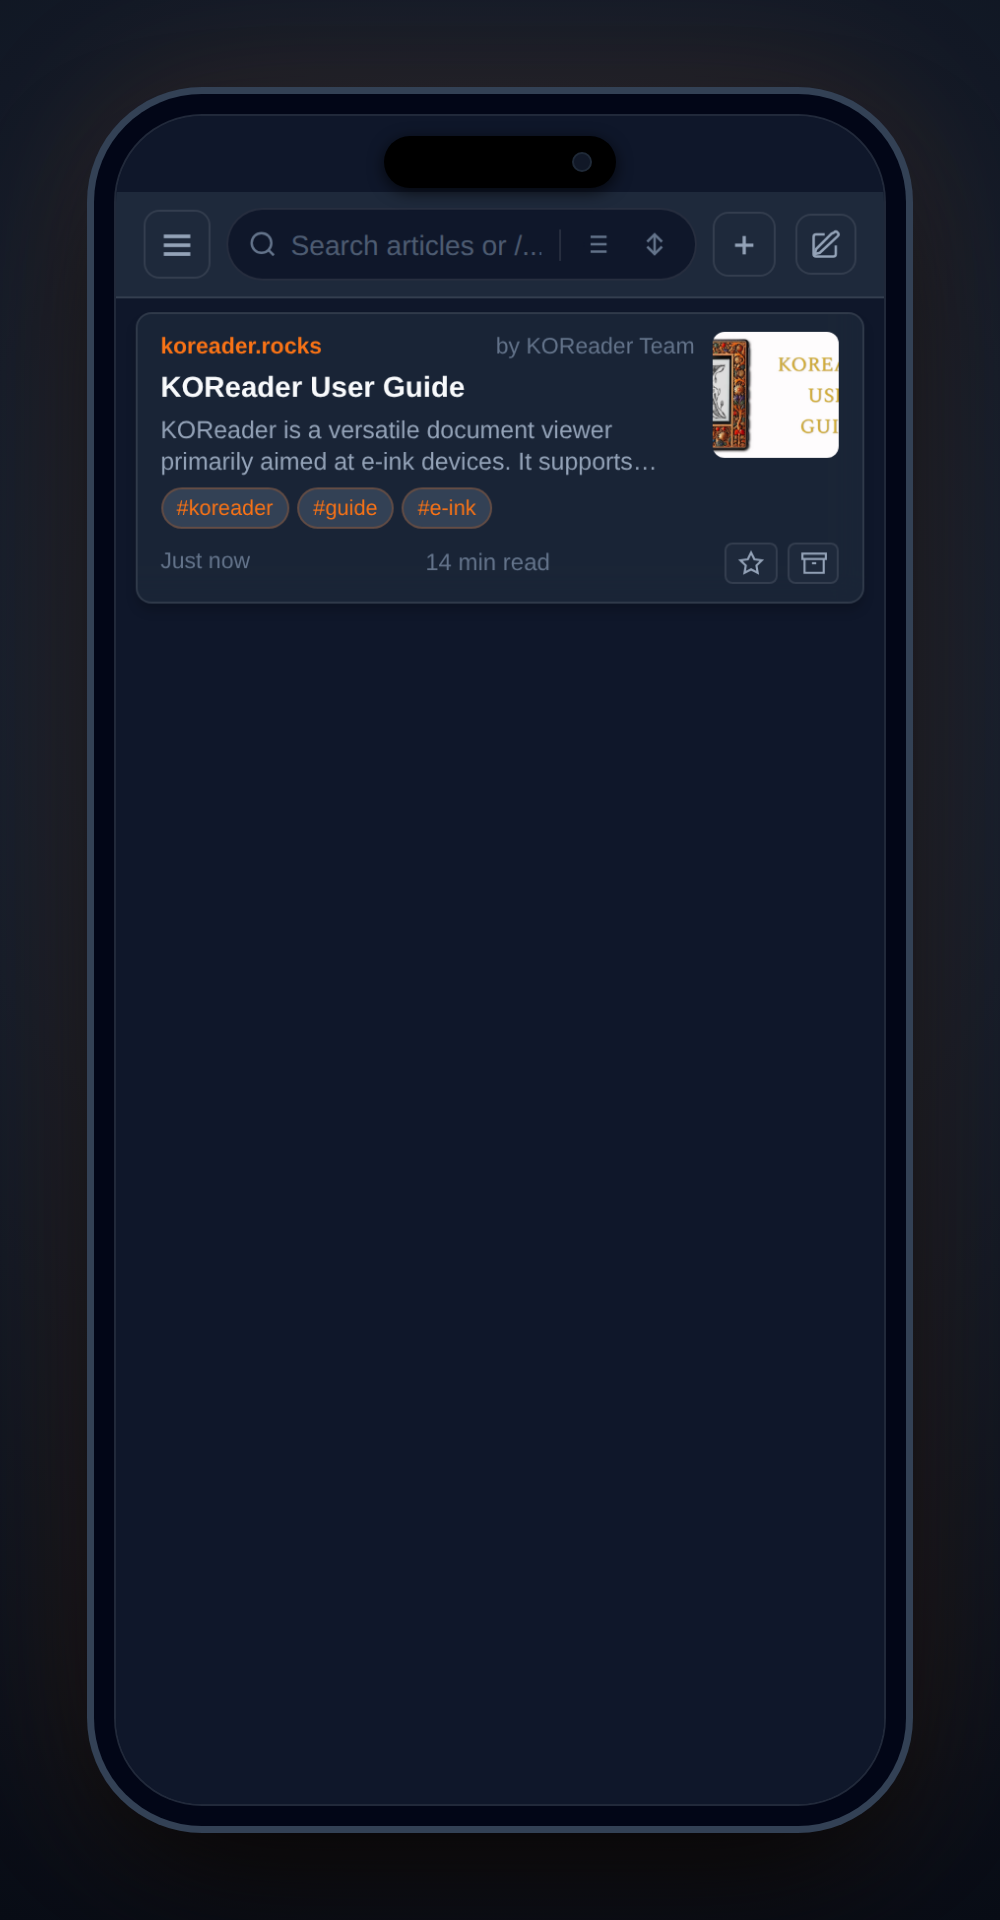
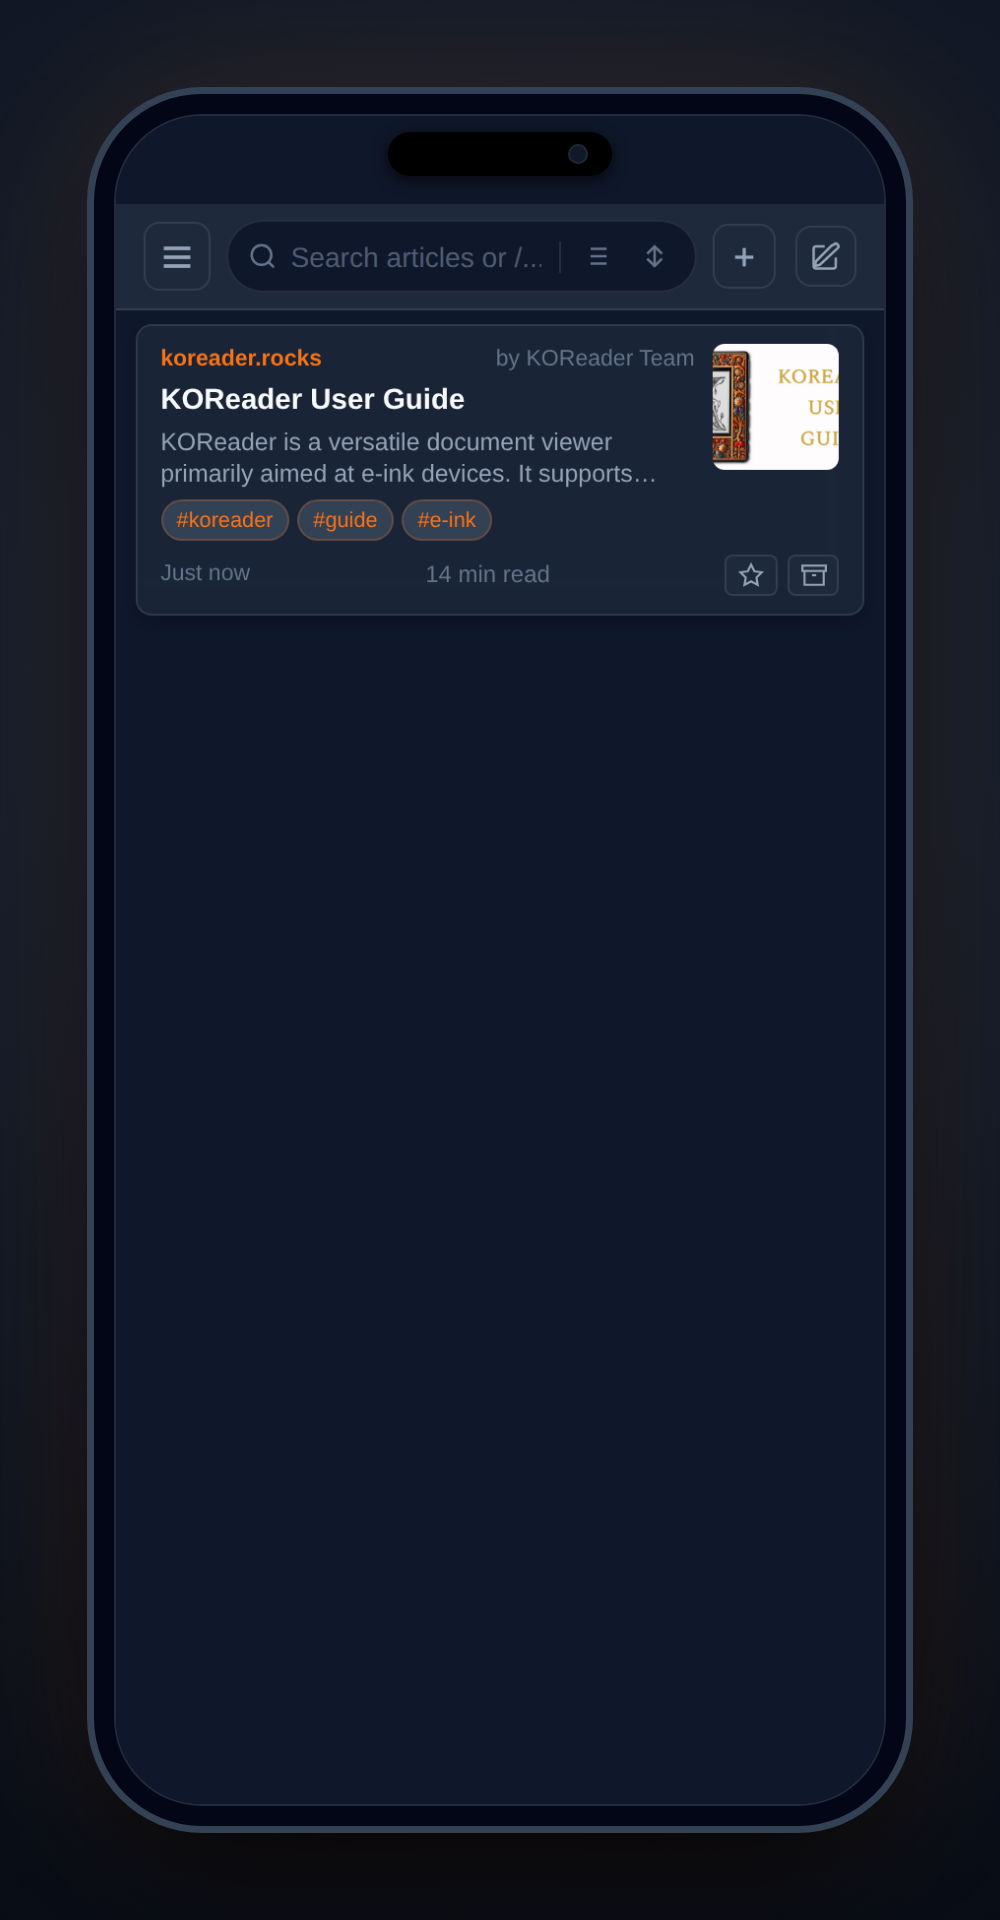
fix: raise camera island and top padding in mobile screenshot mockup

Changed region(s): [[0.155, 0.0625, 0.837, 0.3125], [0.744, 0.2812, 0.837, 0.3125]]

diff --git a/scripts/generate-screenshots.ts b/scripts/generate-screenshots.ts
@@ -188,7 +188,7 @@ function buildMockupWrapperHtml(base64Png: string, title = 'Wallaflare Smartphon
       height: 100%;
       display: flex;
       flex-direction: column;
-      padding-top: 38px;
+      padding-top: 44px;
       background: #0f172a;
       overflow: hidden;
     }
@@ -202,11 +202,11 @@ function buildMockupWrapperHtml(base64Png: string, title = 'Wallaflare Smartphon
     /* Dynamic Island / Punch Hole */
     .dynamic-island {
       position: absolute;
-      top: 10px;
+      top: 8px;
       left: 50%;
       transform: translateX(-50%);
-      width: 116px;
-      height: 26px;
+      width: 112px;
+      height: 22px;
       background: #000000;
       border-radius: 20px;
       z-index: 1000;
